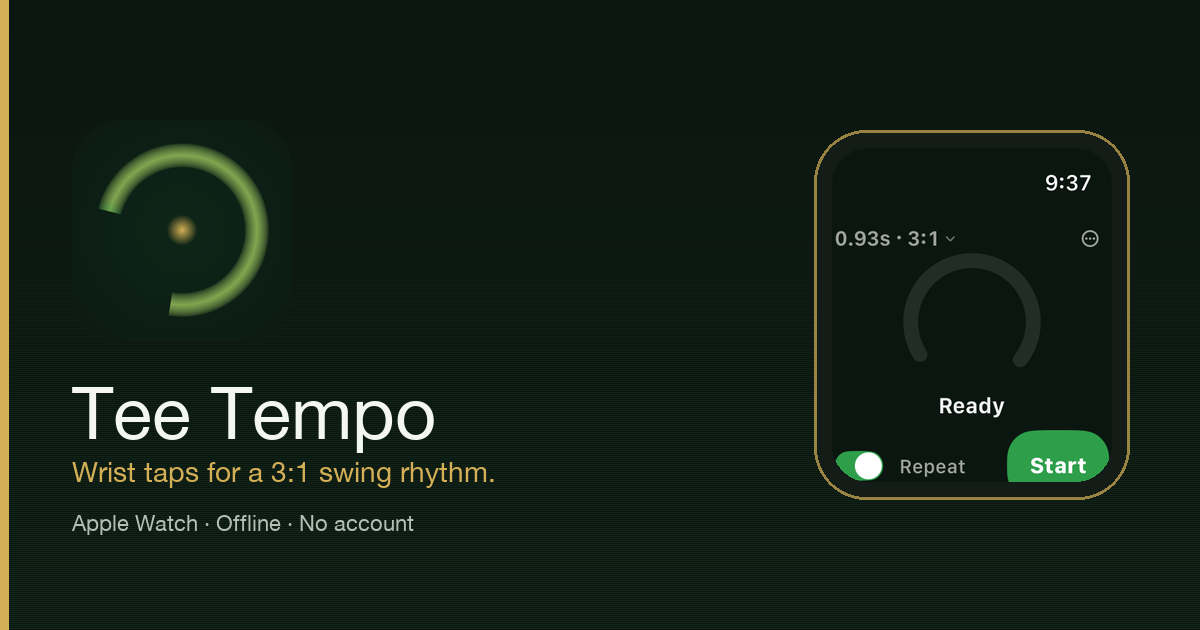
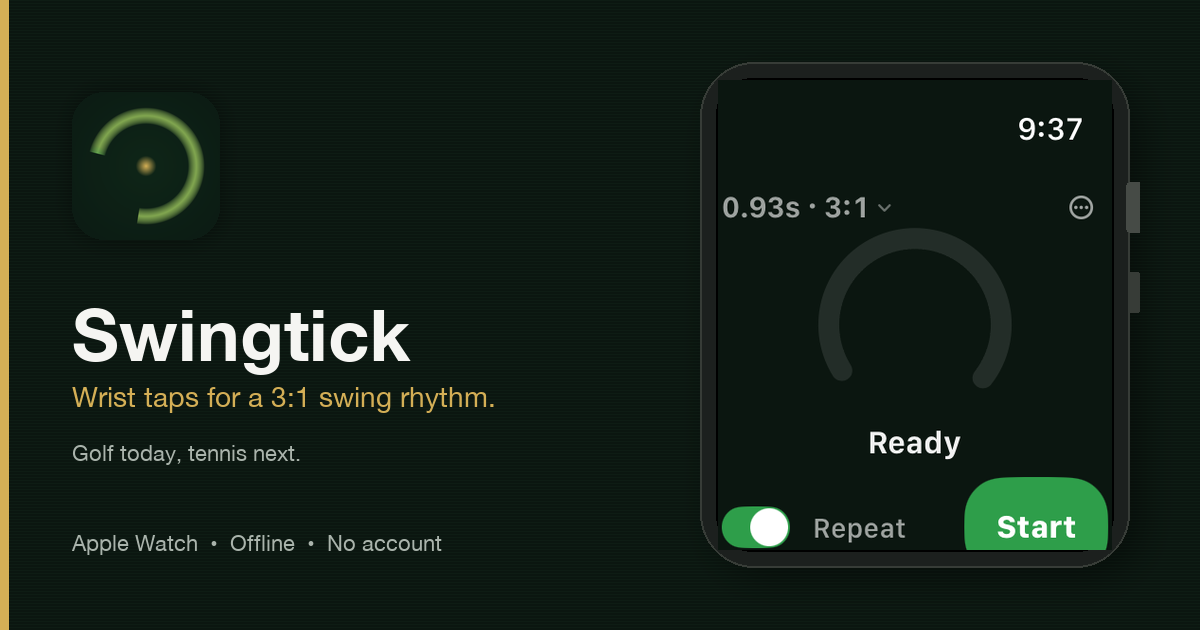
Rebrand marketing site to Swingtick.

diff --git a/index.html b/index.html
@@ -3,22 +3,23 @@
 <head>
   <meta charset="utf-8">
   <meta name="viewport" content="width=device-width, initial-scale=1">
-  <title>Tee Tempo — Wrist taps for a 3:1 golf swing rhythm</title>
-  <meta name="description" content="Tee Tempo is a watch-only Apple Watch app that teaches golf swing rhythm with three wrist taps — takeaway, top, and impact — at a 3:1 backswing-to-downswing ratio. Offline. No account. No data collected.">
+  <title>Swingtick — Wrist taps for a 3:1 swing rhythm</title>
+  <meta name="description" content="Swingtick is a watch-only Apple Watch app that teaches swing rhythm with three wrist taps — takeaway, top, and impact — at a 3:1 ratio. Golf today, tennis next. Offline. No account. No data collected.">
   <link rel="canonical" href="https://erdtheturd.github.io/tee-tempo/">
+  <!-- TODO: Move canonical / OG URLs to https://swingtick.com once the domain is bought. -->
   <meta property="og:type" content="website">
-  <meta property="og:site_name" content="Tee Tempo">
+  <meta property="og:site_name" content="Swingtick">
   <meta property="og:locale" content="en_US">
   <meta property="og:url" content="https://erdtheturd.github.io/tee-tempo/">
-  <meta property="og:title" content="Tee Tempo — Wrist taps for a 3:1 golf swing rhythm">
-  <meta property="og:description" content="A watch-only Apple Watch app that taps takeaway, top, and impact at a 3:1 rhythm. Smooth, Tour, and Quick presets — or dial your own with the Digital Crown.">
+  <meta property="og:title" content="Swingtick — Wrist taps for a 3:1 swing rhythm">
+  <meta property="og:description" content="A watch-only Apple Watch app that taps takeaway, top, and impact at a 3:1 rhythm. Golf today, tennis next. Smooth, Tour, and Quick presets — or dial your own with the Digital Crown.">
   <meta property="og:image" content="https://erdtheturd.github.io/tee-tempo/assets/og.png">
   <meta property="og:image:width" content="1200">
   <meta property="og:image:height" content="630">
-  <meta property="og:image:alt" content="Tee Tempo app icon and Apple Watch screen with the pitch: wrist taps for a 3:1 swing rhythm.">
+  <meta property="og:image:alt" content="Swingtick app icon and Apple Watch screen with the pitch: wrist taps for a 3:1 swing rhythm.">
   <meta name="twitter:card" content="summary_large_image">
-  <meta name="twitter:title" content="Tee Tempo — Wrist taps for a 3:1 golf swing rhythm">
-  <meta name="twitter:description" content="A watch-only Apple Watch app that taps takeaway, top, and impact at a 3:1 rhythm. Offline. No account.">
+  <meta name="twitter:title" content="Swingtick — Wrist taps for a 3:1 swing rhythm">
+  <meta name="twitter:description" content="A watch-only Apple Watch app that taps takeaway, top, and impact at a 3:1 rhythm. Golf today, tennis next. Offline. No account.">
   <meta name="twitter:image" content="https://erdtheturd.github.io/tee-tempo/assets/og.png">
   <link rel="icon" href="assets/favicon.ico" sizes="any">
   <link rel="icon" type="image/png" sizes="32x32" href="assets/favicon-32.png">
@@ -32,7 +33,7 @@
     <div class="nav">
       <a class="brand" href="index.html">
         <img src="assets/icon-192.png" width="36" height="36" alt="">
-        <span>Tee Tempo</span>
+        <span>Swingtick</span>
       </a>
       <ul class="nav-links">
         <li><a href="#rhythm">Rhythm</a></li>
@@ -48,13 +49,13 @@
       <div class="hero-inner">
         <div class="copy">
           <div class="hero-brand">
-            <img src="assets/icon-1024.png" width="72" height="72" alt="Tee Tempo app icon">
-            <h1>Tee Tempo</h1>
+            <img src="assets/icon-1024.png" width="72" height="72" alt="Swingtick app icon">
+            <h1>Swingtick</h1>
           </div>
           <p class="lede">Three wrist taps. One 3:1 swing rhythm.</p>
-          <p class="hero-support">A watch-only Apple Watch app that marks takeaway, the top, and impact — so you feel the pace instead of watching a metronome.</p>
+          <p class="hero-support">A watch-only Apple Watch app that marks takeaway, the top, and impact — so you feel the pace instead of watching a metronome. Golf today, tennis next.</p>
           <div class="hero-cta">
-            <!-- Replace href="#" with the App Store URL when Tee Tempo is live. -->
+            <!-- Replace href="#" with the App Store URL when Swingtick is live. -->
             <a class="as-badge" href="#" aria-label="Download on the App Store, coming soon">
               <svg viewBox="0 0 24 24" aria-hidden="true" focusable="false">
                 <path fill="currentColor" d="M18.71 19.5c-.83 1.24-1.71 2.45-3.05 2.47-1.34.03-1.77-.79-3.29-.79-1.53 0-2 .77-3.27.82-1.31.05-2.3-1.32-3.14-2.53C4.25 17 2.94 12.45 4.7 9.39c.87-1.52 2.43-2.48 4.12-2.51 1.28-.02 2.5.87 3.29.87.78 0 2.26-1.07 3.81-.91.65.03 2.47.26 3.64 1.98-.09.06-2.17 1.28-2.15 3.81.03 3.02 2.65 4.03 2.68 4.04-.03.07-.42 1.44-1.38 2.83M13 3.5c.73-.83 1.94-1.46 2.94-1.5.13 1.17-.34 2.35-1.04 3.19-.69.85-1.83 1.51-2.95 1.42-.15-1.15.41-2.35 1.05-3.11z"/>
@@ -64,9 +65,9 @@
             <p class="soon">Coming soon for Apple Watch. Free. Works fully offline.</p>
           </div>
         </div>
-        <figure class="watch" aria-label="Tee Tempo on Apple Watch">
+        <figure class="watch" aria-label="Swingtick on Apple Watch">
           <div class="watch-bezel">
-            <img class="watch-screen" src="assets/v4-main.png" width="416" height="496" alt="Tee Tempo main screen on Apple Watch, Ready, showing the Tour pace at 0.93 seconds and a 3:1 ratio.">
+            <img class="watch-screen" src="assets/v4-main.png" width="416" height="496" alt="Swingtick main screen on Apple Watch, Ready, showing the Tour pace at 0.93 seconds and a 3:1 ratio.">
           </div>
           <span class="watch-crown" aria-hidden="true"></span>
           <span class="watch-button" aria-hidden="true"></span>
@@ -81,7 +82,7 @@
           <div class="copy">
             <p class="kicker">The feel</p>
             <h2>Takeaway. Top. Impact.</h2>
-            <p>Tour players take the club back unhurried, then come down in about one-third the time. Tee Tempo trains that 3:1 ratio on your wrist.</p>
+            <p>Tour players take the club back unhurried, then come down in about one-third the time. Swingtick trains that 3:1 ratio on your wrist — golf first, with more swing sports planned later.</p>
             <p>A tap starts the backswing. A second tap marks the top. Impact is the firmer tap — when the club should meet the ball.</p>
           </div>
           <div class="media">
@@ -110,7 +111,7 @@
           <div class="media">
             <figure class="watch">
               <div class="watch-bezel">
-                <img class="watch-screen" src="assets/v4-settings.png" width="416" height="496" alt="Tee Tempo Settings on Apple Watch with custom pace, ratio, and pause controls.">
+                <img class="watch-screen" src="assets/v4-settings.png" width="416" height="496" alt="Swingtick Settings on Apple Watch with custom pace, ratio, and pause controls.">
               </div>
               <span class="watch-crown" aria-hidden="true"></span>
               <span class="watch-button" aria-hidden="true"></span>
@@ -141,13 +142,13 @@
           <div class="copy">
             <p class="kicker">On the wrist</p>
             <h2>Watch-only. Offline. Your log, your watch.</h2>
-            <p>There is no iPhone app to babysit. Tee Tempo lives on Apple Watch — complications for your current pace, a Start Tee Tempo shortcut for Siri, and History charts you can check between buckets.</p>
+            <p>There is no iPhone app to babysit. Swingtick lives on Apple Watch — complications for your current pace, a Start Swingtick shortcut for Siri, and History charts you can check between buckets.</p>
             <p>Nothing leaves the watch. No account. No analytics. Raise your wrist, pick Tour, and feel the three taps.</p>
           </div>
           <div class="media">
             <figure class="watch">
               <div class="watch-bezel">
-                <img class="watch-screen" src="assets/v4-main.png" width="416" height="496" alt="Tee Tempo Ready screen on Apple Watch.">
+                <img class="watch-screen" src="assets/v4-main.png" width="416" height="496" alt="Swingtick Ready screen on Apple Watch.">
               </div>
               <span class="watch-crown" aria-hidden="true"></span>
               <span class="watch-button" aria-hidden="true"></span>
@@ -160,9 +161,9 @@
     <section class="cta-band">
       <div class="wrap">
         <h2>Practice tempo where you already stand.</h2>
-        <p>On the range, in the backyard, or waiting on the tee — three taps, same rhythm, every swing.</p>
+        <p>On the range, in the backyard, or waiting on the tee — three taps, same rhythm, every swing. Golf today, tennis next.</p>
         <div class="hero-cta">
-          <!-- Replace href="#" with the App Store URL when Tee Tempo is live. -->
+          <!-- Replace href="#" with the App Store URL when Swingtick is live. -->
           <a class="as-badge" href="#" aria-label="Download on the App Store, coming soon">
             <svg viewBox="0 0 24 24" aria-hidden="true" focusable="false">
               <path fill="currentColor" d="M18.71 19.5c-.83 1.24-1.71 2.45-3.05 2.47-1.34.03-1.77-.79-3.29-.79-1.53 0-2 .77-3.27.82-1.31.05-2.3-1.32-3.14-2.53C4.25 17 2.94 12.45 4.7 9.39c.87-1.52 2.43-2.48 4.12-2.51 1.28-.02 2.5.87 3.29.87.78 0 2.26-1.07 3.81-.91.65.03 2.47.26 3.64 1.98-.09.06-2.17 1.28-2.15 3.81.03 3.02 2.65 4.03 2.68 4.04-.03.07-.42 1.44-1.38 2.83M13 3.5c.73-.83 1.94-1.46 2.94-1.5.13 1.17-.34 2.35-1.04 3.19-.69.85-1.83 1.51-2.95 1.42-.15-1.15.41-2.35 1.05-3.11z"/>
@@ -176,7 +177,7 @@
 
   <footer class="site-footer">
     <div class="wrap footer-inner">
-      <p>&copy; 2026 Edward Dunn. Tee Tempo for Apple Watch.</p>
+      <p>&copy; 2026 Edward Dunn. Swingtick for Apple Watch.</p>
       <div class="footer-links">
         <a href="privacy.html">Privacy</a>
         <a href="support.html">Support</a>

diff --git a/support.html b/support.html
@@ -3,18 +3,19 @@
 <head>
   <meta charset="utf-8">
   <meta name="viewport" content="width=device-width, initial-scale=1">
-  <title>Support — Tee Tempo</title>
-  <meta name="description" content="Tee Tempo support and FAQ for the Apple Watch golf tempo app. Contact erdunn706@gmail.com.">
+  <title>Support — Swingtick</title>
+  <meta name="description" content="Swingtick support and FAQ for the Apple Watch swing-tempo app. Contact erdunn706@gmail.com.">
   <link rel="canonical" href="https://erdtheturd.github.io/tee-tempo/support.html">
+  <!-- TODO: Move canonical / OG URLs to https://swingtick.com once the domain is bought. -->
   <meta property="og:type" content="website">
-  <meta property="og:site_name" content="Tee Tempo">
+  <meta property="og:site_name" content="Swingtick">
   <meta property="og:url" content="https://erdtheturd.github.io/tee-tempo/support.html">
-  <meta property="og:title" content="Support — Tee Tempo">
-  <meta property="og:description" content="FAQ and contact for Tee Tempo on Apple Watch.">
+  <meta property="og:title" content="Support — Swingtick">
+  <meta property="og:description" content="FAQ and contact for Swingtick on Apple Watch.">
   <meta property="og:image" content="https://erdtheturd.github.io/tee-tempo/assets/og.png">
   <meta name="twitter:card" content="summary_large_image">
-  <meta name="twitter:title" content="Support — Tee Tempo">
-  <meta name="twitter:description" content="FAQ and contact for Tee Tempo on Apple Watch.">
+  <meta name="twitter:title" content="Support — Swingtick">
+  <meta name="twitter:description" content="FAQ and contact for Swingtick on Apple Watch.">
   <meta name="twitter:image" content="https://erdtheturd.github.io/tee-tempo/assets/og.png">
   <link rel="icon" href="assets/favicon.ico" sizes="any">
   <link rel="icon" type="image/png" sizes="32x32" href="assets/favicon-32.png">
@@ -28,7 +29,7 @@
     <div class="nav">
       <a class="brand" href="index.html">
         <img src="assets/icon-192.png" width="36" height="36" alt="">
-        <span>Tee Tempo</span>
+        <span>Swingtick</span>
       </a>
       <ul class="nav-links">
         <li><a href="index.html">Home</a></li>
@@ -41,20 +42,21 @@
   <main id="main" class="page">
     <div class="page-narrow">
       <h1>Support</h1>
-      <p class="lede">Quick answers for Tee Tempo on Apple Watch. Still stuck? Email us.</p>
+      <p class="lede">Quick answers for Swingtick on Apple Watch. Still stuck? Email us.</p>
 
       <h2>Contact</h2>
       <p><a href="mailto:erdunn706@gmail.com">erdunn706@gmail.com</a></p>
+      <!-- TODO: Switch support email to support@swingtick.com when that mailbox exists. Move site to https://swingtick.com once the domain is bought. -->
 
       <h2>FAQ</h2>
       <div class="faq">
         <details open>
           <summary>Do I need an iPhone app?</summary>
-          <p>No. Tee Tempo is watch-only. The App Store listing installs a small container so the watch app can be delivered; there is no iPhone companion to open or configure.</p>
+          <p>No. Swingtick is watch-only. The App Store listing installs a small container so the watch app can be delivered; there is no iPhone companion to open or configure.</p>
         </details>
         <details>
           <summary>How do the taps work?</summary>
-          <p>Each swing has three haptics: takeaway (start of the backswing), the top, and a firmer impact tap. The default rhythm is 3:1 — backswing about three times as long as the downswing.</p>
+          <p>Each swing has three haptics: takeaway (start of the backswing), the top, and a firmer impact tap. The default rhythm is 3:1 — backswing about three times as long as the downswing. Golf is available today; more swing sports are planned later.</p>
         </details>
         <details>
           <summary>What are Smooth, Tour, and Quick?</summary>
@@ -66,7 +68,7 @@
         </details>
         <details>
           <summary>Where is my swing history stored?</summary>
-          <p>Only on your Apple Watch. Tee Tempo does not sync history to iCloud or a server, and nothing is sent to us. Delete the app and the log goes with it.</p>
+          <p>Only on your Apple Watch. Swingtick does not sync history to iCloud or a server, and nothing is sent to us. Delete the app and the log goes with it.</p>
         </details>
         <details>
           <summary>Does it work offline?</summary>
@@ -74,7 +76,7 @@
         </details>
         <details>
           <summary>Can I start from Siri or a complication?</summary>
-          <p>Yes. Use the Start Tee Tempo shortcut, or add a Tee Tempo complication that shows your current preset and pace.</p>
+          <p>Yes. Use the Start Swingtick shortcut, or add a Swingtick complication that shows your current preset and pace.</p>
         </details>
         <details>
           <summary>I feel weak or missing taps in the Simulator</summary>
@@ -86,7 +88,7 @@
 
   <footer class="site-footer">
     <div class="wrap footer-inner">
-      <p>&copy; 2026 Edward Dunn. Tee Tempo for Apple Watch.</p>
+      <p>&copy; 2026 Edward Dunn. Swingtick for Apple Watch.</p>
       <div class="footer-links">
         <a href="privacy.html">Privacy</a>
         <a href="support.html">Support</a>

diff --git a/privacy.html b/privacy.html
@@ -3,18 +3,19 @@
 <head>
   <meta charset="utf-8">
   <meta name="viewport" content="width=device-width, initial-scale=1">
-  <title>Privacy Policy — Tee Tempo</title>
-  <meta name="description" content="Tee Tempo privacy policy: no data collected, nothing leaves the watch, no analytics, no account.">
+  <title>Privacy Policy — Swingtick</title>
+  <meta name="description" content="Swingtick privacy policy: no data collected, nothing leaves the watch, no analytics, no account.">
   <link rel="canonical" href="https://erdtheturd.github.io/tee-tempo/privacy.html">
+  <!-- TODO: Move canonical / OG URLs to https://swingtick.com once the domain is bought. -->
   <meta property="og:type" content="website">
-  <meta property="og:site_name" content="Tee Tempo">
+  <meta property="og:site_name" content="Swingtick">
   <meta property="og:url" content="https://erdtheturd.github.io/tee-tempo/privacy.html">
-  <meta property="og:title" content="Privacy Policy — Tee Tempo">
-  <meta property="og:description" content="Tee Tempo does not collect data. Swing history stays on your Apple Watch.">
+  <meta property="og:title" content="Privacy Policy — Swingtick">
+  <meta property="og:description" content="Swingtick does not collect data. Swing history stays on your Apple Watch.">
   <meta property="og:image" content="https://erdtheturd.github.io/tee-tempo/assets/og.png">
   <meta name="twitter:card" content="summary_large_image">
-  <meta name="twitter:title" content="Privacy Policy — Tee Tempo">
-  <meta name="twitter:description" content="Tee Tempo does not collect data. Swing history stays on your Apple Watch.">
+  <meta name="twitter:title" content="Privacy Policy — Swingtick">
+  <meta name="twitter:description" content="Swingtick does not collect data. Swing history stays on your Apple Watch.">
   <meta name="twitter:image" content="https://erdtheturd.github.io/tee-tempo/assets/og.png">
   <link rel="icon" href="assets/favicon.ico" sizes="any">
   <link rel="icon" type="image/png" sizes="32x32" href="assets/favicon-32.png">
@@ -28,7 +29,7 @@
     <div class="nav">
       <a class="brand" href="index.html">
         <img src="assets/icon-192.png" width="36" height="36" alt="">
-        <span>Tee Tempo</span>
+        <span>Swingtick</span>
       </a>
       <ul class="nav-links">
         <li><a href="index.html">Home</a></li>
@@ -43,22 +44,23 @@
       <h1>Privacy Policy</h1>
       <p class="lede">Effective date: November 14, 2026</p>
 
-      <p>Tee Tempo is a watch-only Apple Watch app published by Edward Dunn.</p>
+      <p>Swingtick is a watch-only Apple Watch app published by Edward Dunn. Golf is available today; more swing sports are planned later.</p>
 
       <h2>We do not collect data</h2>
-      <p>Tee Tempo does not collect personal data. The app does not create an account, does not include analytics or advertising SDKs, and does not send information to us or to any third party.</p>
+      <p>Swingtick does not collect personal data. The app does not create an account, does not include analytics or advertising SDKs, and does not send information to us or to any third party.</p>
 
       <h2>What stays on your watch</h2>
       <p>Your swing history, presets, and settings are stored on your Apple Watch only. Nothing in that log leaves the device. If you delete the app, that on-device data is removed with it.</p>
 
       <h2>Offline by design</h2>
-      <p>Tee Tempo works without a network connection. Practice, drills, History, and complications do not require the internet.</p>
+      <p>Swingtick works without a network connection. Practice, drills, History, and complications do not require the internet.</p>
 
       <h2>No tracking</h2>
       <p>We do not track you across apps or websites. There are no ads and no third-party measurement tools in the app.</p>
 
       <h2>Contact</h2>
       <p>Questions about this policy: <a href="mailto:erdunn706@gmail.com">erdunn706@gmail.com</a>.</p>
+      <!-- TODO: Switch support email to support@swingtick.com when that mailbox exists. -->
 
       <p>If this policy changes, the updated text will be posted on this page.</p>
     </div>
@@ -66,7 +68,7 @@
 
   <footer class="site-footer">
     <div class="wrap footer-inner">
-      <p>&copy; 2026 Edward Dunn. Tee Tempo for Apple Watch.</p>
+      <p>&copy; 2026 Edward Dunn. Swingtick for Apple Watch.</p>
       <div class="footer-links">
         <a href="privacy.html">Privacy</a>
         <a href="support.html">Support</a>

diff --git a/styles.css b/styles.css
@@ -1,4 +1,4 @@
-/* Tee Tempo marketing site — dark green & gold from the watch app. */
+/* Swingtick marketing site — dark green & gold from the watch app. */
 
 :root {
   --bg: #0b1610;
